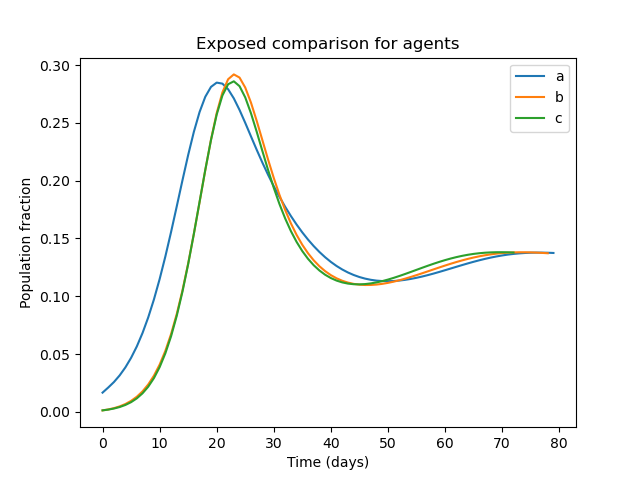
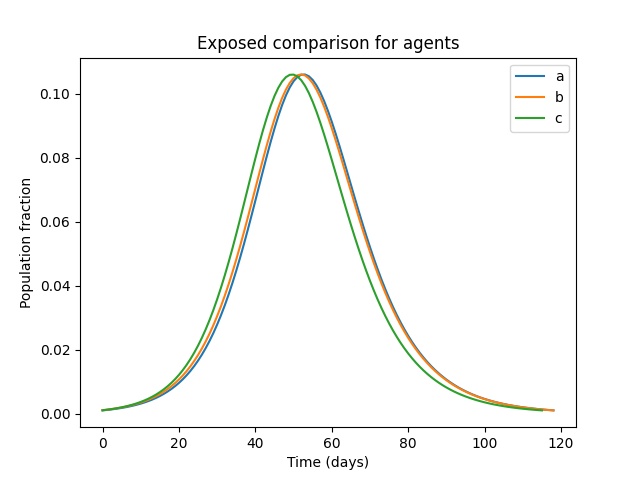
chenged model from SEIR to SEAIRD

diff --git a/agent.py b/agent.py
@@ -90,17 +90,53 @@ class Nation(Agent):
 
 	@property
 	def next_state(self):
+		"""
+		ß= rate of transmission
+		n= natural death rate
+		c(t)=mitigation policies factor
+		s= measuring effect of isolation policy
+		g=infected/aymptomatic recovery rate
+		d=infected die rate
+		e=
+		k="""
 
-		S, E, I, R, N = self.state.to_array
 
-		a, b, g, d, r = [*self.parameters.values()]
+		S, E, A, I, R, D, N = self.state.to_array
+
+		b, n, c, s, g, d, e, k = [*self.parameters.values()]
+
+
 		
-		next_S = S - (r * b * S * I) + (d * R)  # Add fraction of recovered compartment.
-		next_E = E + (r * b * S * I - a * E)
-		next_I = I + (a * E - g * I)
-		next_R = R + (g * I) - (d * R)  # Remove fraction of recovered compartment.
+		next_S = S - (b * S * c) * (s * I + E + A) - (n * S) + (n * (1 - D))  # Add fraction of recovered compartment.
+		next_E = E + (b * c * S) * (s * I + E + A) - (k + n)*E
+		next_A = A + (1 - e) * k * E - (g + n) * A
+		next_I = I + (e * k * E) - (g + d + n) * I
+		next_R = R + (g * (A + I)) - (n * R) 
+		next_D = D + d * I  # Remove fraction of recovered compartment.
 
-		print(State(next_S, next_E, next_I, next_R, N))
-		return State(next_S, next_E, next_I, next_R, N)
+		return State(next_S, next_E, next_A, next_I, next_R, next_D, N)
+
+
+
+
+
+
+
+
+
+
+
+
+
+
+
+
+
+
+
+
+
+
+
 
 

diff --git a/state.py b/state.py
@@ -2,9 +2,9 @@ import numpy as np
 
 class State:
 
-	def __init__(self, S, E, I, R, N):
+	def __init__(self, S, E, A, I, R, D, N):
 
-		self._state = np.array([S, E, I, R, N])
+		self._state = np.array([S, E, A, I, R, D, N])
 
 	def __repr__(self):
 
@@ -19,16 +19,24 @@ class State:
 		return self._state[1]
 
 	@property
-	def I(self):
+	def A(self):
 		return self._state[2]
 
 	@property
-	def R(self):
+	def I(self):
 		return self._state[3]
 
 	@property
-	def N(self):
+	def R(self):
 		return self._state[4]
+
+	@property
+	def D(self):
+		return self._state[5]
+
+	@property
+	def N(self):
+		return self._state[6]
 
 	def set_value(self, sign, value):
 
@@ -48,4 +56,4 @@ class State:
 
 	@property
 	def SEIR(self):
-		return self._state[:4]
+		return self._state[:6]

diff --git a/main.py b/main.py
@@ -55,9 +55,9 @@ for i in range(settings['iterations']):
 		agents[agent].set_state(agents[agent].next_state)
 		
 
-
+plot_compartment_comparison(agents, 0, "susceptible")
 plot_compartment_comparison(agents, 1, "Exposed")
-plot_compartment_comparison(agents, 2, "Infected")
+plot_compartment_comparison(agents, 3, "Infected")
 
 
 
